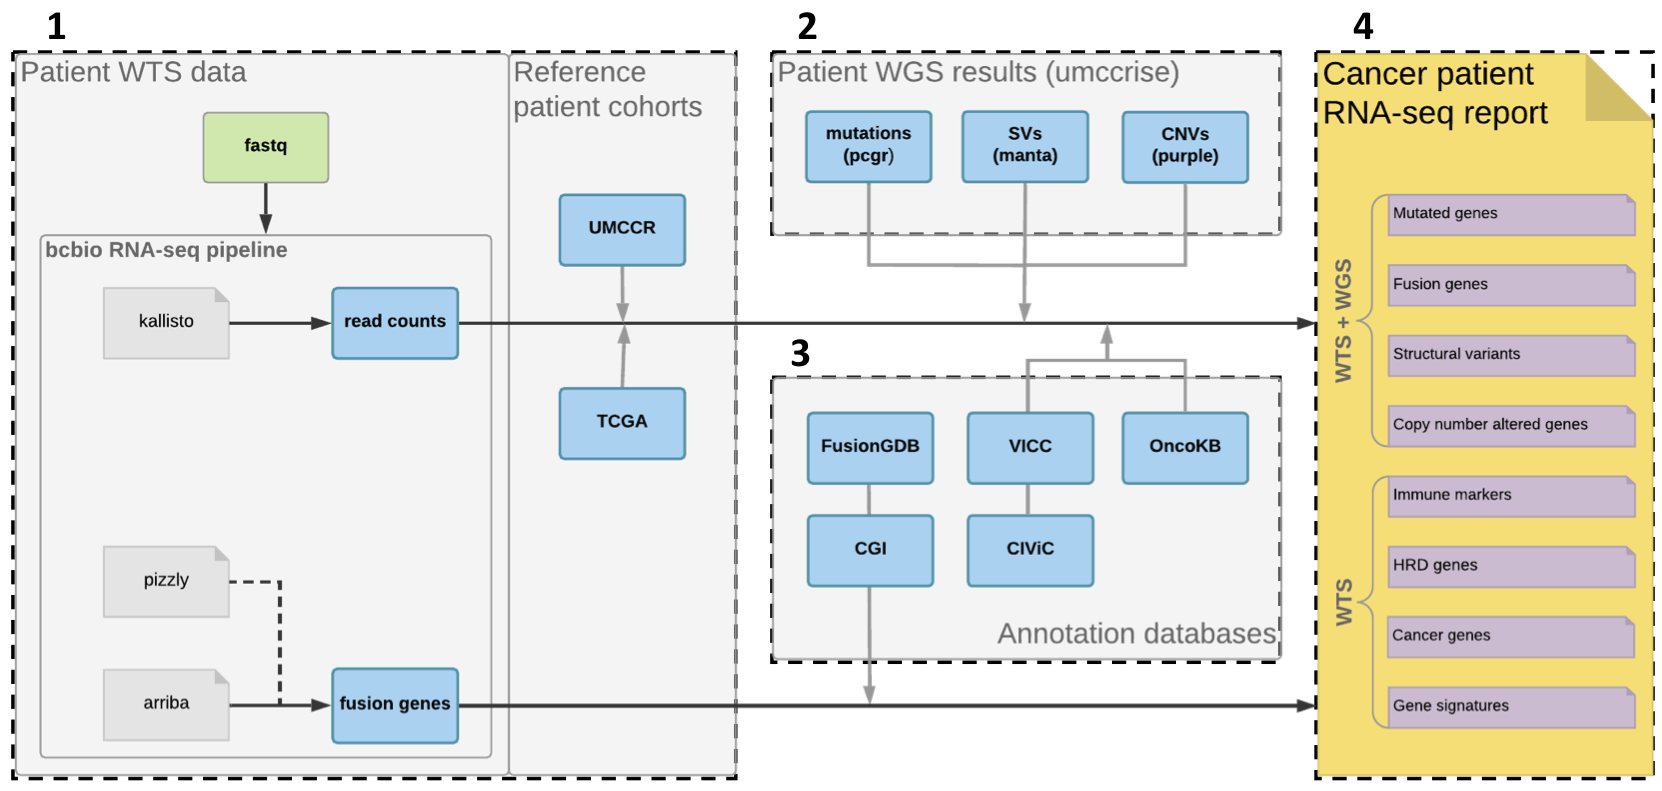
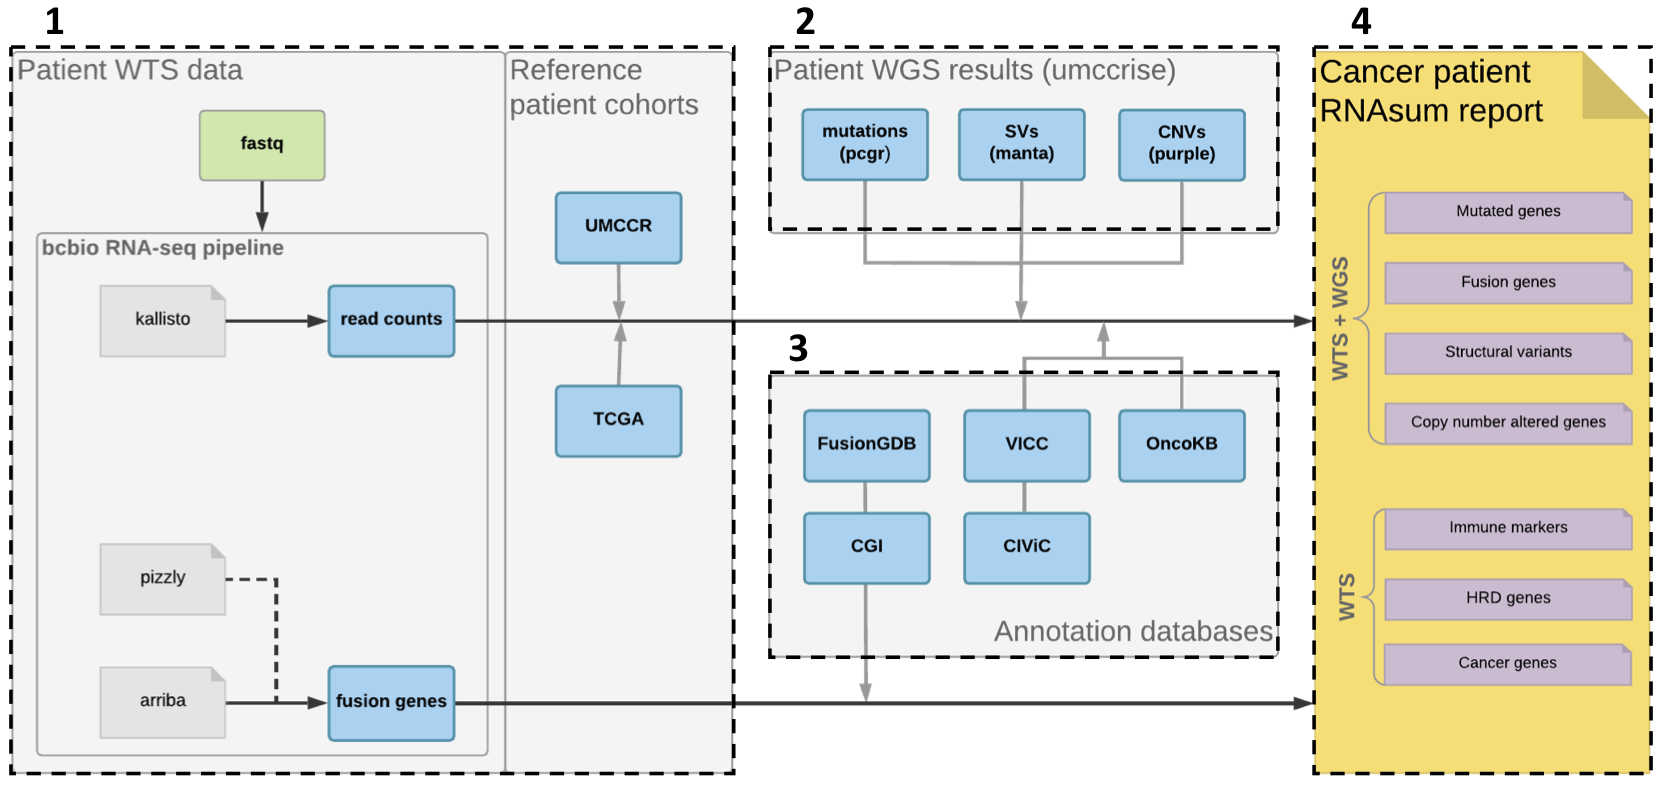
Change name to RNAsum

diff --git a/README.md b/README.md
@@ -28,18 +28,18 @@ RNA-seq reporting workflow designed to post-process, summarise and visualise an 
 
 ## Installation
 
-Run the following to create a directory "rnaseq-report" and install into it
+Run the following to create a directory "rnasum" and install into it
 
 ```
-mkdir rnaseq-report
-cd rnaseq-report
+mkdir rnasum
+cd rnasum
 source <(curl -s https://raw.githubusercontent.com/umccr/RNAseq-Analysis-Report/master/install.sh)
 ```
 
-It will generate `load_rnaseq-report.sh` script that can be sourced to load the `rnaseq-report` environment:
+It will generate `load_rnasum.sh` script that can be sourced to load the `rnasum` environment:
 
 ```
-source load_rnaseq-report.sh
+source load_rnasum.sh
 ```
 
 
@@ -216,7 +216,7 @@ Below are command line use examples for generating *Patient Transcriptome Summar
 * make sure that the created *conda* environment (see [Installation](#installation) section) is  activated
 
 ```
-conda activate rnaseq-report
+conda activate rnasum
 ```
 
 * *[RNAseq_report.R](./rmd_files/RNAseq_report.R)* script (see the beginning of [Usage](#usage) section) should be executed from [rmd_files](./rmd_files) folder
